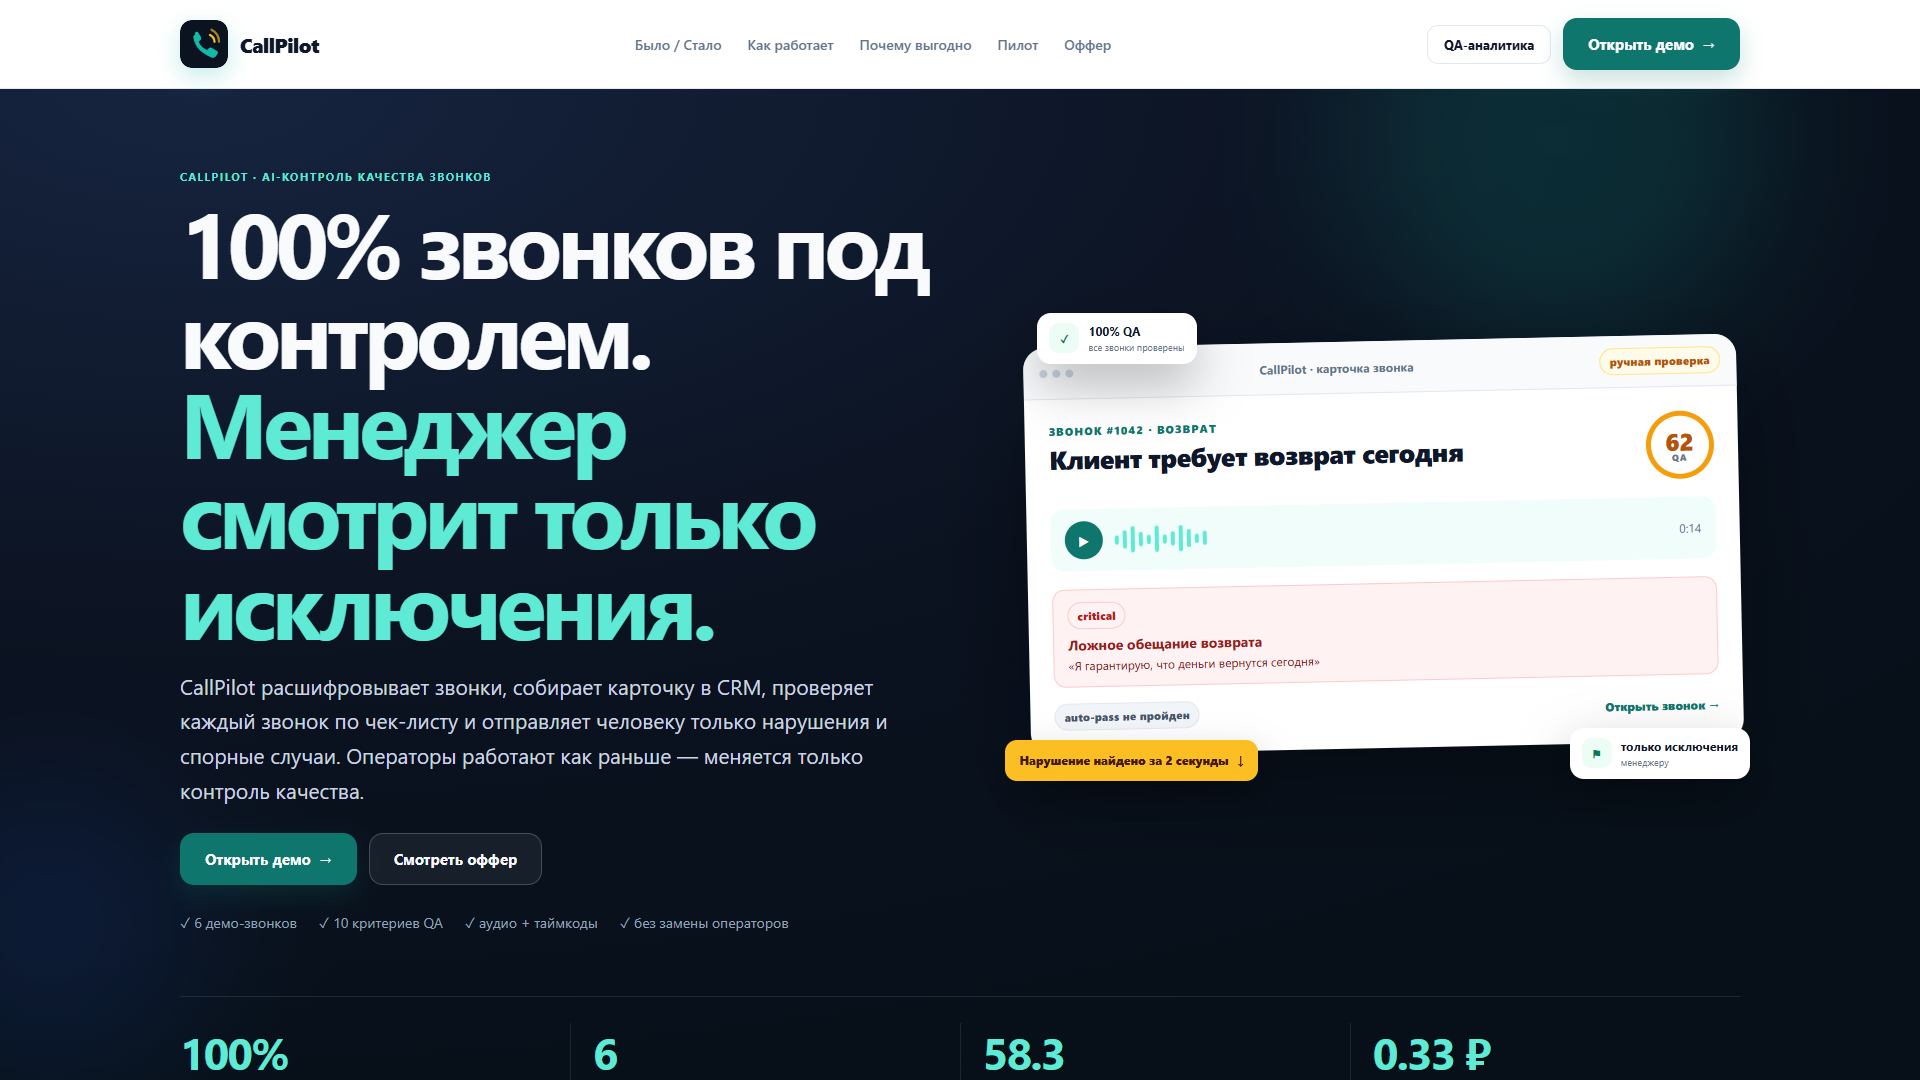
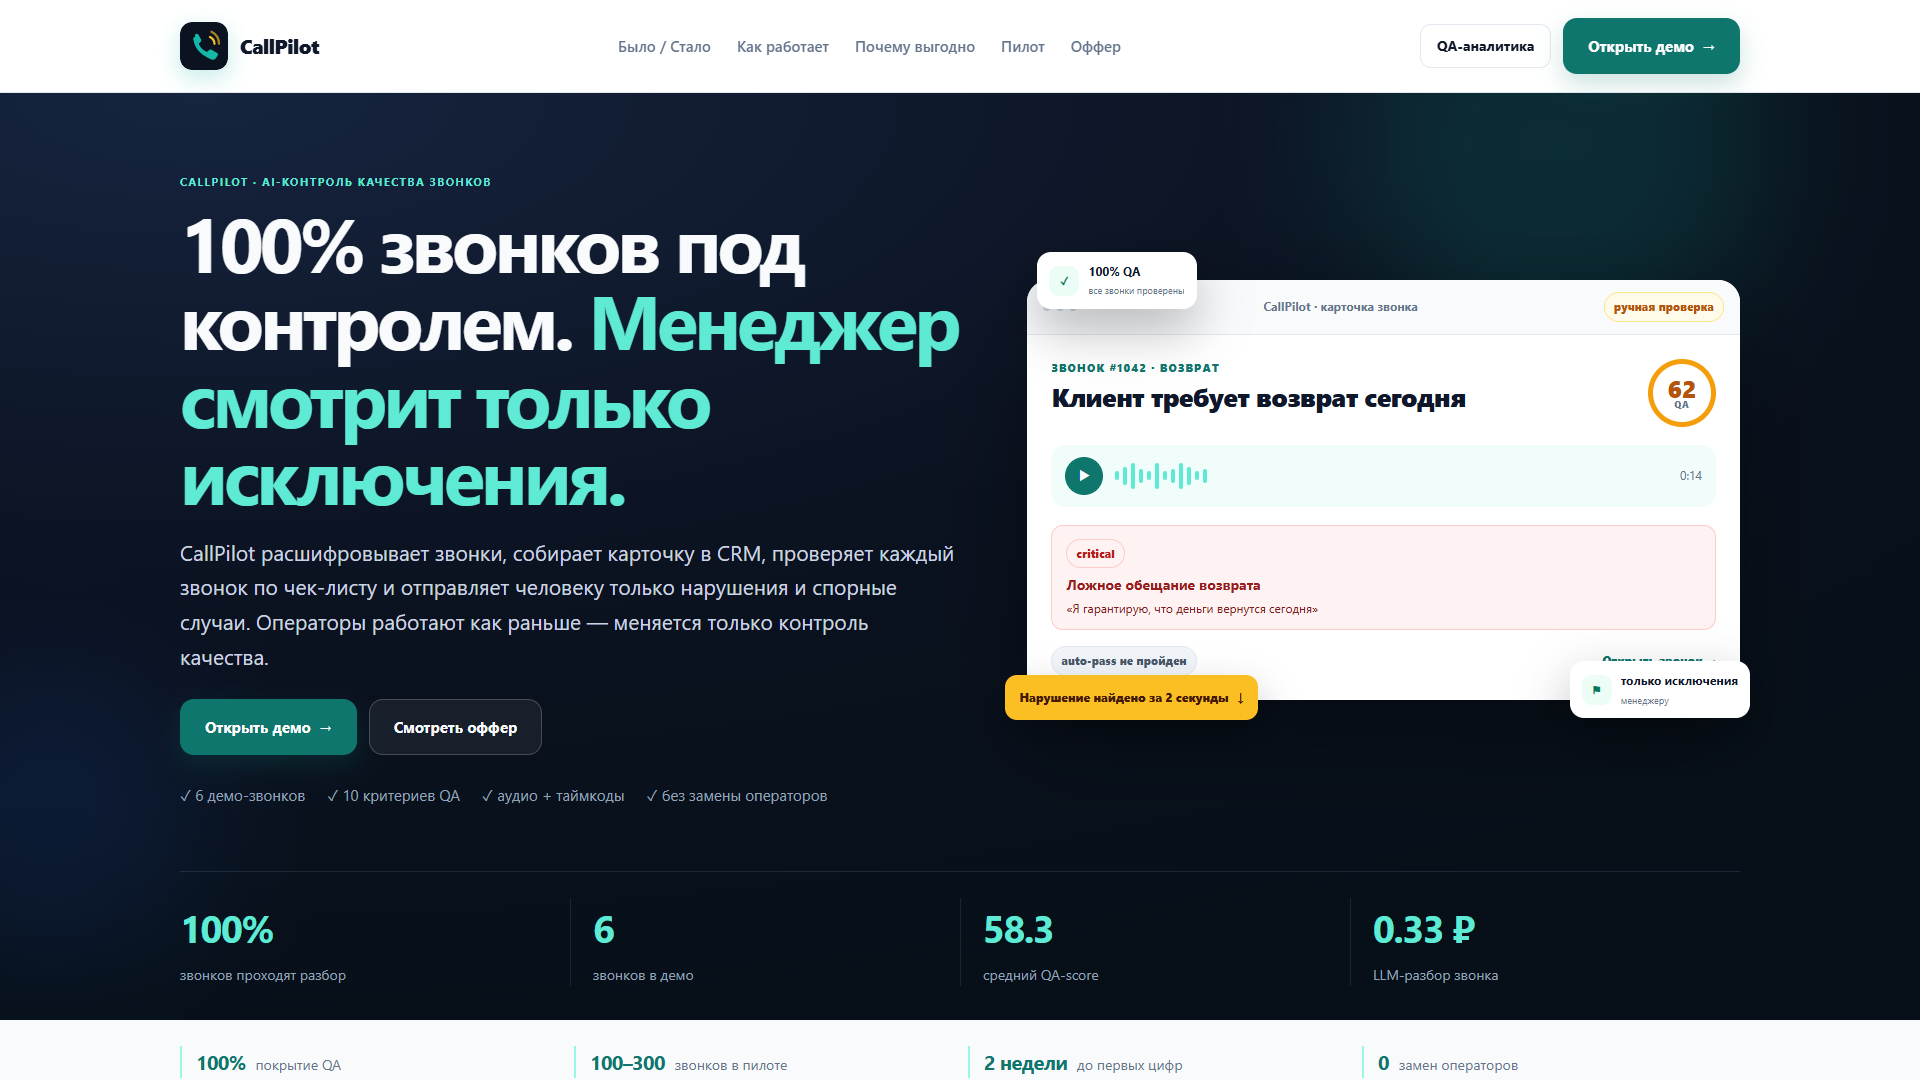
fix: balance CallPilot landing typography and straighten hero card

diff --git a/call-center/static/style.css b/call-center/static/style.css
@@ -335,7 +335,9 @@ textarea { resize: vertical; min-height: 60px; }
 .pilot-metrics span { font-size: 10px; color: #94a3b8; }
 
 /* Marketing */
-.marketing-body { background: #f8fafc; }
+.marketing-body { background: #f8fafc; font-size: 17px; line-height: 1.6; }
+.marketing-body .btn { font-size: 14px; }
+.marketing-body .btn-large { font-size: 15px; }
 .marketing-nav {
   position: sticky; top: 0; z-index: 20;
   display: flex; align-items: center; justify-content: space-between; gap: 28px;
@@ -343,7 +345,7 @@ textarea { resize: vertical; min-height: 60px; }
   border-bottom: 1px solid var(--line); backdrop-filter: blur(16px);
 }
 .brand-dark { color: var(--ink); }
-.marketing-links { display: flex; gap: 26px; font-size: 14px; font-weight: 600; color: var(--muted); }
+.marketing-links { display: flex; gap: 26px; font-size: 15px; font-weight: 600; color: var(--muted); }
 .marketing-links a:hover { color: var(--ink); }
 .marketing-actions { display: flex; gap: 12px; align-items: center; }
 .hero { position: relative; overflow: hidden; background: radial-gradient(120% 100% at 10% 0%, #16243f 0%, #0b1220 55%, #071019 100%); color: #f8fafc; padding: 80px var(--page-pad) 0; }
@@ -351,15 +353,15 @@ textarea { resize: vertical; min-height: 60px; }
 .hero-glow-a { width: 420px; height: 420px; background: rgba(20, 184, 166, .32); top: -160px; right: 8%; }
 .hero-glow-b { width: 300px; height: 300px; background: rgba(37, 99, 235, .25); bottom: 60px; left: -100px; }
 .hero-grid { max-width: var(--container); margin: 0 auto; display: grid; grid-template-columns: 1.05fr .95fr; gap: 60px; align-items: center; position: relative; z-index: 1; }
-.hero-copy h1 { font-size: clamp(48px, 4.8vw, 92px); line-height: .98; letter-spacing: -.055em; margin: 12px 0 22px; }
+.hero-copy h1 { font-size: clamp(42px, 4vw, 76px); line-height: 1.02; letter-spacing: -.05em; margin: 12px 0 22px; }
 .hero-copy h1 span { color: #5eead4; }
-.hero-lead { color: #cbd5e1; font-size: clamp(16px, 1.25vw, 21px); line-height: 1.65; max-width: 760px; }
+.hero-lead { color: #cbd5e1; font-size: clamp(18px, 1.15vw, 21px); line-height: 1.65; max-width: 780px; }
 .hero-cta { display: flex; gap: 12px; flex-wrap: wrap; margin-top: 26px; }
 .btn-ghost-light { background: rgba(255, 255, 255, .06); border-color: rgba(255, 255, 255, .2); color: #f8fafc; }
 .btn-ghost-light:hover { background: rgba(255, 255, 255, .12); }
-.hero-trust { display: flex; gap: 22px; flex-wrap: wrap; margin-top: 28px; color: #94a3b8; font-size: 14px; }
+.hero-trust { display: flex; gap: 22px; flex-wrap: wrap; margin-top: 28px; color: #94a3b8; font-size: 15px; }
 .hero-visual { position: relative; min-height: 420px; }
-.mock-window { background: #fff; color: var(--ink); border-radius: 22px; box-shadow: 0 40px 90px rgba(0, 0, 0, .35); overflow: hidden; transform: rotate(-1.2deg); }
+.mock-window { background: #fff; color: var(--ink); border-radius: 22px; box-shadow: 0 40px 90px rgba(0, 0, 0, .35); overflow: hidden; }
 .mock-topbar { display: flex; align-items: center; justify-content: space-between; gap: 10px; padding: 12px 16px; background: #f8fafc; border-bottom: 1px solid var(--line); }
 .mock-dots { display: flex; gap: 5px; }
 .mock-dots span { width: 8px; height: 8px; border-radius: 50%; background: #cbd5e1; }
@@ -411,31 +413,31 @@ textarea { resize: vertical; min-height: 60px; }
 }
 .hero-metrics > div { display: flex; flex-direction: column; gap: 5px; padding: 0 22px; border-left: 1px solid rgba(148, 163, 184, .14); }
 .hero-metrics > div:first-child { border-left: 0; padding-left: 0; }
-.hero-metrics strong { font-size: clamp(30px, 2.5vw, 44px); color: #5eead4; letter-spacing: -.035em; }
-.hero-metrics span { font-size: 13px; color: #94a3b8; }
+.hero-metrics strong { font-size: clamp(28px, 2.2vw, 38px); color: #5eead4; letter-spacing: -.035em; }
+.hero-metrics span { font-size: 14px; color: #94a3b8; }
 .section { width: var(--container); margin: 0 auto; padding: 92px 0; }
 .section-split { padding-top: 0; }
-.section-head { max-width: 980px; margin-bottom: 34px; }
-.section-head h2 { font-size: clamp(34px, 3.2vw, 58px); letter-spacing: -.045em; margin: 10px 0 12px; line-height: 1.05; }
-.section-head p { font-size: clamp(16px, 1.15vw, 19px); line-height: 1.65; }
+.section-head { max-width: 1000px; margin-bottom: 34px; }
+.section-head h2 { font-size: clamp(30px, 2.6vw, 48px); letter-spacing: -.04em; margin: 10px 0 12px; line-height: 1.1; }
+.section-head p { font-size: clamp(18px, 1.05vw, 20px); line-height: 1.65; }
 .steps { display: grid; grid-template-columns: repeat(4, 1fr); gap: 20px; }
 .step-card { background: #fff; border: 1px solid var(--line); border-radius: var(--radius); padding: 28px; box-shadow: var(--shadow-sm); }
 .step-number { font-size: 13px; font-weight: 800; color: var(--teal-dark); letter-spacing: .1em; margin-bottom: 22px; }
-.step-card h3 { font-size: 20px; margin-bottom: 8px; }
-.step-card p { color: var(--muted); font-size: 15px; line-height: 1.6; }
+.step-card h3 { font-size: 19px; margin-bottom: 8px; }
+.step-card p { color: var(--muted); font-size: 16px; line-height: 1.65; }
 .feature-grid { display: grid; grid-template-columns: repeat(3, 1fr); gap: 20px; }
 .feature-card { background: #fff; border: 1px solid var(--line); border-radius: var(--radius); padding: 30px; box-shadow: var(--shadow-sm); }
 .feature-icon { width: 48px; height: 48px; border-radius: 14px; background: #ecfdf5; color: var(--teal-dark); display: flex; align-items: center; justify-content: center; font-size: 20px; font-weight: 800; margin-bottom: 20px; }
-.feature-card h3 { font-size: 20px; margin-bottom: 8px; }
-.feature-card p { color: var(--muted); font-size: 15px; line-height: 1.65; }
+.feature-card h3 { font-size: 19px; margin-bottom: 8px; }
+.feature-card p { color: var(--muted); font-size: 16px; line-height: 1.65; }
 .pilot-card { display: flex; align-items: center; justify-content: space-between; gap: 56px; background: linear-gradient(120deg, #0b1220, #103b39); color: #f8fafc; border-radius: 28px; padding: 52px; box-shadow: 0 30px 70px rgba(15, 23, 42, .18); }
-.pilot-card h2 { font-size: clamp(34px, 3.4vw, 58px); letter-spacing: -.05em; margin: 10px 0 12px; line-height: 1.02; }
-.pilot-card p { color: #cbd5e1; font-size: 16px; line-height: 1.65; max-width: 760px; }
+.pilot-card h2 { font-size: clamp(30px, 2.8vw, 48px); letter-spacing: -.045em; margin: 10px 0 12px; line-height: 1.08; }
+.pilot-card p { color: #cbd5e1; font-size: 17px; line-height: 1.65; max-width: 760px; }
 .pilot-card .eyebrow { color: #5eead4; }
 .pilot-list { display: flex; flex-direction: column; gap: 12px; min-width: 370px; }
-.pilot-list > div { display: flex; align-items: center; gap: 14px; background: rgba(255, 255, 255, .06); border: 1px solid rgba(255, 255, 255, .1); border-radius: 14px; padding: 13px 16px; font-size: 14px; }
+.pilot-list > div { display: flex; align-items: center; gap: 14px; background: rgba(255, 255, 255, .06); border: 1px solid rgba(255, 255, 255, .1); border-radius: 14px; padding: 13px 16px; font-size: 15px; }
 .pilot-list span { font-size: 11px; color: #5eead4; font-weight: 800; }
-.marketing-footer { display: flex; align-items: center; justify-content: space-between; gap: 32px; width: var(--container); margin: 0 auto; padding: 34px 0 48px; color: var(--muted); font-size: 13px; border-top: 1px solid var(--line); }
+.marketing-footer { display: flex; align-items: center; justify-content: space-between; gap: 32px; width: var(--container); margin: 0 auto; padding: 34px 0 48px; color: var(--muted); font-size: 14px; border-top: 1px solid var(--line); }
 .marketing-footer a { color: var(--teal-dark); font-weight: 700; }
 
 /* Landing: trust, before/after, CTA, audience */
@@ -448,44 +450,44 @@ textarea { resize: vertical; min-height: 60px; }
   display: flex; align-items: baseline; gap: 10px;
   border-left: 2px solid #99f6e4; padding-left: 14px;
 }
-.trust-item strong { font-size: 22px; letter-spacing: -.03em; color: var(--teal-dark); }
-.trust-item span { font-size: 13px; color: var(--muted); }
+.trust-item strong { font-size: 20px; letter-spacing: -.03em; color: var(--teal-dark); }
+.trust-item span { font-size: 14px; color: var(--muted); }
 .ba-grid { display: grid; grid-template-columns: 1fr 1fr; gap: 22px; }
 .ba-card { border-radius: 20px; padding: 26px; border: 1px solid var(--line); background: #fff; box-shadow: var(--shadow-sm); }
 .ba-before { background: #f8fafc; }
 .ba-after { border-color: #99f6e4; box-shadow: 0 18px 45px rgba(15, 118, 110, .12); }
 .ba-header { display: flex; align-items: center; gap: 12px; margin-bottom: 18px; }
-.ba-header h3 { font-size: 20px; }
+.ba-header h3 { font-size: 19px; }
 .ba-transcript { display: flex; flex-direction: column; gap: 11px; }
-.ba-transcript p { background: #fff; border: 1px solid #e8eef5; border-radius: 10px; padding: 11px 13px; font-size: 14px; line-height: 1.55; color: #475569; }
+.ba-transcript p { background: #fff; border: 1px solid #e8eef5; border-radius: 10px; padding: 11px 13px; font-size: 15px; line-height: 1.6; color: #475569; }
 .ba-transcript span { color: var(--teal-dark); font-weight: 800; }
 .ba-fields { display: grid; grid-template-columns: 1fr 1fr; gap: 12px 16px; margin-bottom: 16px; }
 .ba-fields > div { background: #f8fafc; border-radius: 10px; padding: 10px 12px; display: flex; flex-direction: column; gap: 4px; }
-.ba-fields span { font-size: 10px; text-transform: uppercase; letter-spacing: .08em; color: var(--muted); font-weight: 800; }
-.ba-fields strong { font-size: 14px; }
+.ba-fields span { font-size: 11px; text-transform: uppercase; letter-spacing: .08em; color: var(--muted); font-weight: 800; }
+.ba-fields strong { font-size: 15px; }
 .text-red { color: #b91c1c; }
 .ba-finding { background: #fef2f2; border: 1px solid #fecaca; border-radius: 12px; padding: 13px 15px; margin-bottom: 16px; }
-.ba-finding strong { display: block; font-size: 14px; color: #991b1b; margin: 6px 0 2px; }
-.ba-finding p { font-size: 13px; color: #7f1d1d; line-height: 1.45; }
-.ba-note { font-size: 12px; color: var(--muted); border-top: 1px dashed var(--line); padding-top: 12px; }
+.ba-finding strong { display: block; font-size: 15px; color: #991b1b; margin: 6px 0 2px; }
+.ba-finding p { font-size: 14px; color: #7f1d1d; line-height: 1.5; }
+.ba-note { font-size: 13px; color: var(--muted); border-top: 1px dashed var(--line); padding-top: 12px; }
 .ba-note-green { color: #047857; border-top-color: #a7f3d0; }
 .mid-cta {
   display: flex; align-items: center; justify-content: space-between; gap: 24px;
   background: #ecfdf5; border: 1px solid #a7f3d0; border-radius: 18px;
   padding: 22px 26px; margin-top: 24px;
 }
-.mid-cta strong { display: block; font-size: 18px; margin-bottom: 3px; }
-.mid-cta span { color: var(--muted); font-size: 14px; }
+.mid-cta strong { display: block; font-size: 19px; margin-bottom: 3px; }
+.mid-cta span { color: var(--muted); font-size: 15px; }
 .audience-grid { display: grid; grid-template-columns: repeat(4, 1fr); gap: 18px; }
 .audience-card { background: #fff; border: 1px solid var(--line); border-radius: 18px; padding: 24px; box-shadow: var(--shadow-sm); }
 .audience-icon { display: inline-flex; width: 44px; height: 44px; border-radius: 13px; background: #f0fdfa; color: var(--teal-dark); align-items: center; justify-content: center; font-size: 20px; margin-bottom: 16px; }
 .audience-icon svg { width: 22px; height: 22px; }
 .audience-card h3 { font-size: 18px; margin-bottom: 7px; }
-.audience-card p { color: var(--muted); font-size: 14px; line-height: 1.6; }
+.audience-card p { color: var(--muted); font-size: 15.5px; line-height: 1.65; }
 .footer-brand { display: flex; align-items: center; gap: 20px; }
-.footer-brand p { max-width: 520px; font-size: 13px; line-height: 1.55; }
+.footer-brand p { max-width: 520px; font-size: 14px; line-height: 1.55; }
 .footer-actions { display: flex; align-items: center; gap: 10px; flex-wrap: wrap; }
-.footer-contact { font-size: 13px; color: var(--teal-dark); }
+.footer-contact { font-size: 14px; color: var(--teal-dark); }
 
 /* Offer */
 .offer-body { background: #eef4f8; }
@@ -566,7 +568,7 @@ textarea { resize: vertical; min-height: 60px; }
   .topbar-actions { justify-content: flex-start; }
   .kpi-grid { grid-template-columns: repeat(2, 1fr); }
   .hero { padding: 48px 16px 0; }
-  .hero-copy h1 { font-size: clamp(38px, 9vw, 54px); }
+  .hero-copy h1 { font-size: clamp(36px, 8.5vw, 48px); }
   .section { width: calc(100% - 32px); padding: 48px 0; }
   .marketing-nav { padding: 12px 16px; }
   .marketing-actions .btn-ghost { display: none; }
